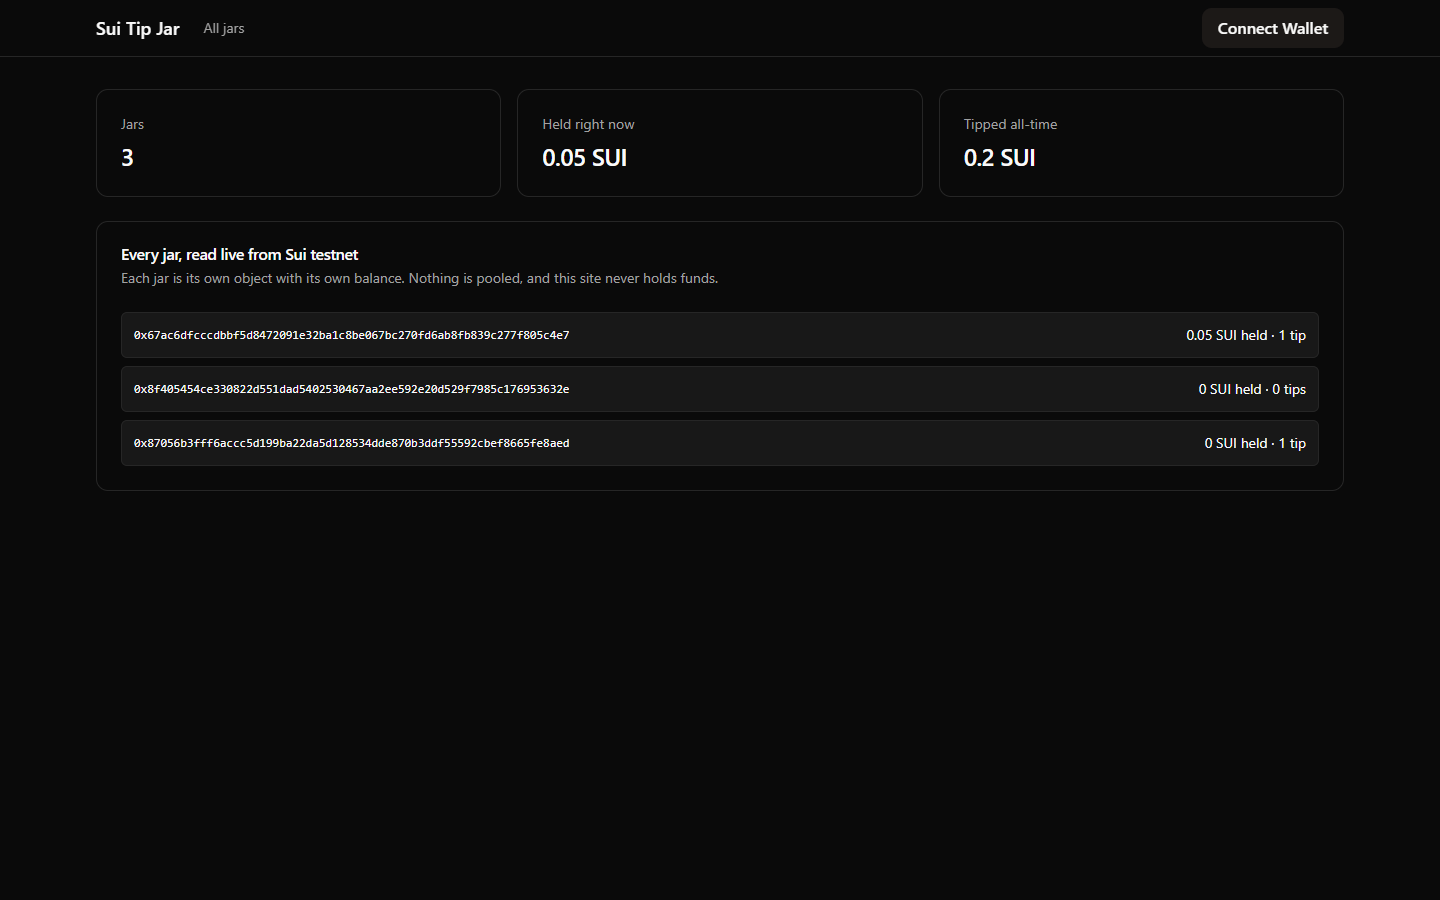
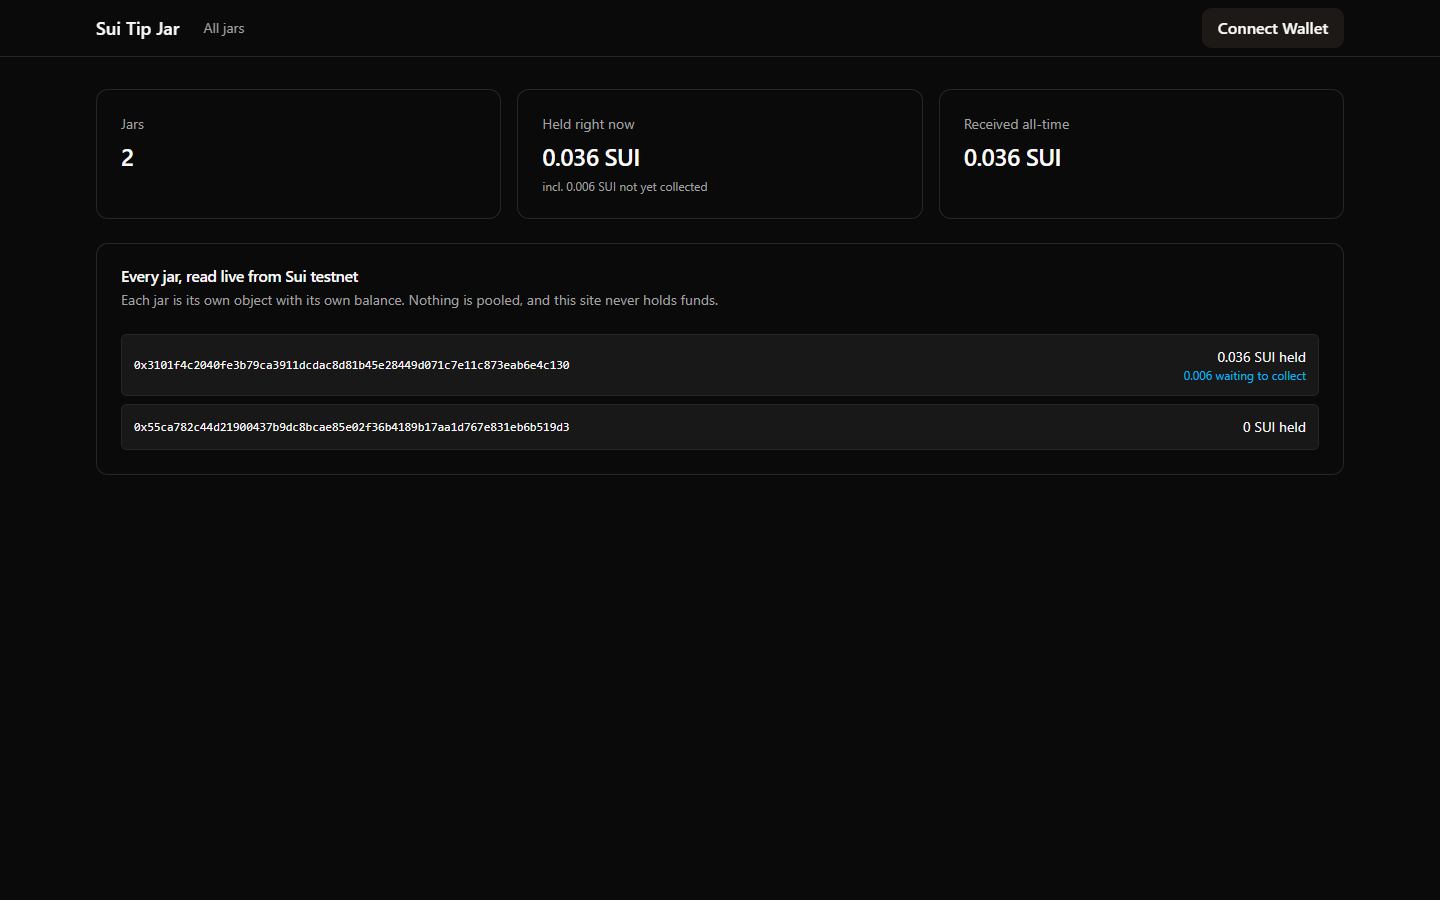
Remove superseded ts/ scripts; document direct deposits and v2

diff --git a/README.md b/README.md
@@ -14,8 +14,7 @@ This is a monorepo: the smart contract and the web app live side by side.
 | --- | --- |
 | `move/tip_jar/sources/tip_jar.move` | Move contract (shared `TipJar` and owned `OwnerCap`) |
 | `move/tip_jar/tests/tip_jar_tests.move` | `test_scenario` tests, including the wrong-cap attack |
-| `frontend/` | React + dApp Kit web app (owner dashboard, tip page, all-jars view) |
-| `ts/src/ptb.ts` | Standalone PTB builders for create, tip and withdraw (`@mysten/sui`) |
+| `frontend/` | React + dApp Kit web app (owner dashboard, tip page with QR code, all-jars view) |
 | `.github/workflows/deploy.yml` | Builds `frontend/` and deploys it to GitHub Pages on every push |
 | `submission/` | Logo, cover image and screenshots |
 
@@ -30,25 +29,30 @@ There is no backend server. The browser talks to Sui directly: it writes through
 | Contract tests | `sui move test` with `sui::test_scenario` |
 | Transactions | Programmable Transaction Blocks via `@mysten/sui` (TypeScript SDK v2) |
 | Wallet connection | `@mysten/dapp-kit-react` (Slush and other Wallet Standard wallets) |
-| Chain reads | `SuiGrpcClient` (objects), Sui GraphQL (`JarCreated` events), BCS decoding |
-| Frontend | React 19, TypeScript, Vite, Tailwind CSS, TanStack Query, lucide-react |
+| Chain reads | `SuiGrpcClient` (objects, balances, coins), Sui GraphQL (events and per-address transaction history), BCS decoding |
+| Frontend | React 19, TypeScript, Vite, Tailwind CSS, TanStack Query, lucide-react, qrcode.react |
 | Hosting / CI | GitHub Pages via GitHub Actions |
 | Tooling | Sui CLI (installed with `suiup`), Node.js, npm |
 
 ## Security model
 
 - **Capability, not address checks:** withdrawing needs the jar's `OwnerCap` object. Only its owner can put it in a transaction.
-- **A cap only opens its own jar:** `withdraw` asserts `cap.jar_id == object::id(jar)`. The `cap_from_another_jar_cannot_withdraw` test covers this.
+- **A cap only opens its own jar:** `withdraw` and both `collect_*` functions assert `cap.jar_id == object::id(jar)`. The `cap_from_another_jar_cannot_withdraw` and `collect_with_wrong_cap_fails` tests cover this.
+- **Only the jar's module can reach deposits at the jar's address:** pulling them in needs `&mut` access to the jar's `UID`, which only `tip_jar` has.
 - **Exact payments:** the client splits the exact tip off the gas coin, and `tip()` consumes the whole coin it is given.
 - **No custody:** each jar holds its own `Balance<SUI>`. Nothing is pooled, and the website never holds funds.
 
 ## How it works
 
 1. **Owner** connects a wallet and clicks **Create a jar**. The jar is a shared object that anyone can tip into. The owner receives an `OwnerCap`, which is the key to that jar.
-2. The owner shares the tip link (`/?jar=<jar id>`).
-3. **Supporters** open the link, connect a wallet and send a tip. The transaction splits the exact amount off their gas coin and passes it to `tip()`.
-4. The owner clicks **Withdraw all**. `withdraw_all()` checks that the `OwnerCap` belongs to this jar before paying out.
-5. **All jars** (`/?view=all`) lists every jar ever created, with how much each one currently holds. It finds them through their `JarCreated` events.
+2. The owner shares the tip link (`/?jar=<jar id>`). It opens a page with a **QR code** and the jar's address.
+3. **Supporters** can tip in two ways:
+   - **From any wallet (no app needed):** scan the QR code or paste the address into their wallet's normal **Send** screen. The SUI lands at the jar's address.
+   - **In the app:** connect a wallet and click **Tip**. The PTB splits the exact amount off their gas coin and passes it to `tip()`.
+4. **Direct deposits are counted, then collected.** A plain wallet send never runs contract code, so the app reads it from the chain. Depending on the wallet, it's either in the jar's address balance or a `Coin` object sent to the jar. The owner's card shows it as *waiting to collect*. **Collect deposits** calls `collect_address_deposits` / `collect_coin_deposit`, which move it into the jar and add it to `total_tipped` and `total_direct`.
+5. **Withdraw all** runs one PTB: it collects any waiting deposits, then `withdraw_all()`, then sends the payout to the owner.
+6. **Jar activity** is a public record of every app tip, direct deposit, collection and withdrawal. It merges contract events with the chain's transaction history for the jar's address.
+7. **All jars** (`/?view=all`) lists every jar, with how much each one holds including deposits not yet collected. It finds jars through their `JarCreated` events.
 
 | Tip page | All jars |
 | --- | --- |
@@ -84,8 +88,9 @@ Save the `PackageId` that the publish prints.
 
 ## Deployed (testnet)
 
-- Package: [`0x8c14…8562`](https://suiscan.xyz/testnet/object/0x8c14352695f80e3406e96189d8b722907e6535b67463c3d01031b1f1add88562)
[1 lines of base64/hex data omitted]
+- Package (v2, current): [`0x7032…e7bb`](https://suiscan.xyz/testnet/object/0x7032353131b3710055c4145beb5f6e5cb55e60903a25655fe181441f0cf8e7bb)
+- Demo jar: [`0x3101…c130`](https://m1-antra.github.io/sui-tip-jar/?jar=0x3101f4c2040fe3b79ca3911dcdac8d81b45e28449d071c7e11c873eab6e4c130)
[1 lines of base64/hex data omitted]
 
 ## Try it from the CLI
 
@@ -98,4 +103,12 @@ sui client ptb --split-coins gas "[100000000]" --assign coins --move-call <PKG>:
 
 # withdraw 0.05 SUI (needs the matching OwnerCap)
 sui client ptb --move-call <PKG>::tip_jar::withdraw @<JAR> @<CAP> 50000000 --assign payout --transfer-objects "[payout]" @<YOUR_ADDRESS>
+
+# simulate a wallet "Send" straight to the jar's ID (no contract call)
+sui client ptb --split-coins gas "[10000000]" --assign c --transfer-objects "[c]" @<JAR>
+
+# owner collects it: a Coin object sent to the jar...
+sui client ptb --move-call <PKG>::tip_jar::collect_coin_deposit @<JAR> @<CAP> @<COIN_ID>
+# ...or SUI sitting in the jar's address balance
+sui client ptb --move-call <PKG>::tip_jar::collect_address_deposits @<JAR> @<CAP> <AMOUNT_MIST>
 ```
